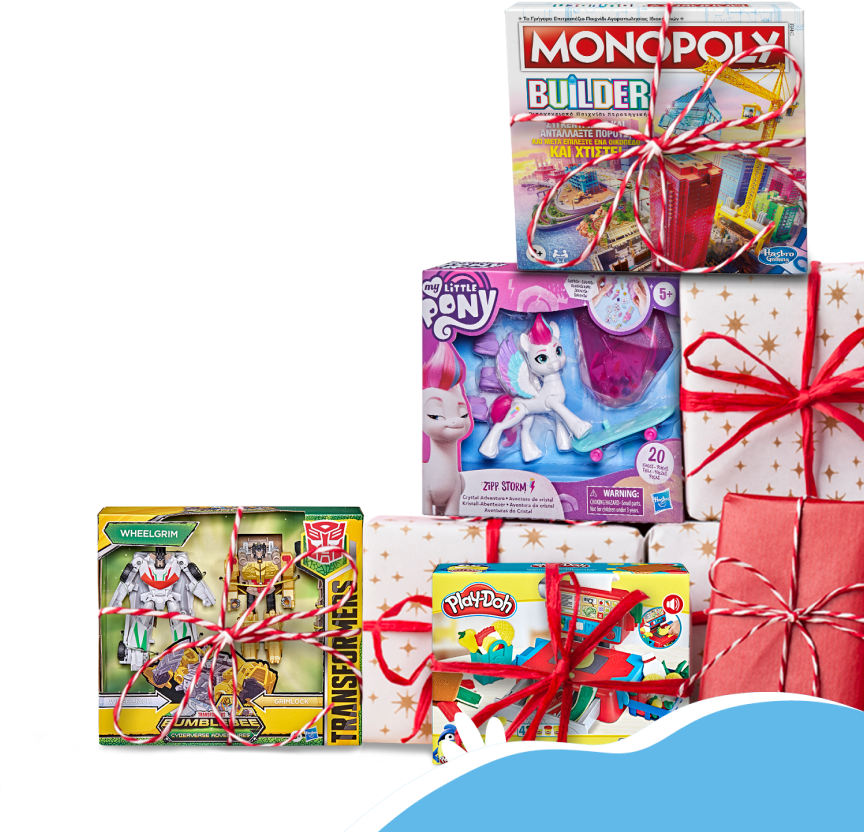
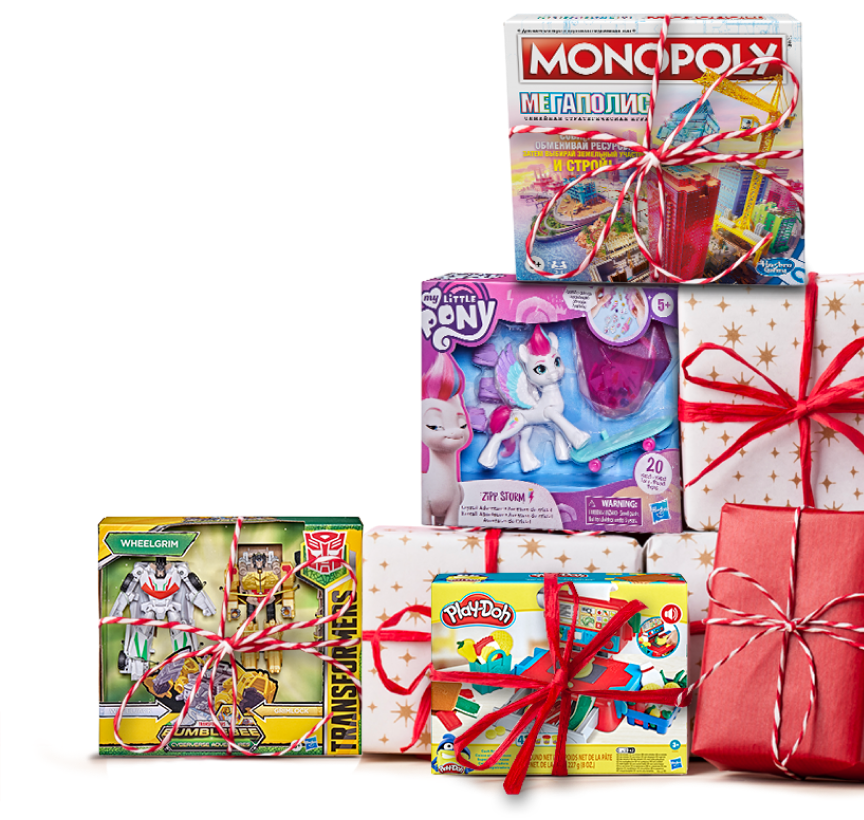
next

diff --git a/index.html b/index.html
@@ -157,7 +157,7 @@
     <figure class="first-section__presents">
       <img src="./dist/img/presents.png"
            width="432"
-           height="416"
+           height="410"
            loading="lazy"
            alt="img">
     </figure>

diff --git a/dist/css/main.css b/dist/css/main.css
@@ -1027,7 +1027,7 @@ figure img {
   .first-section__presents {
     position: absolute;
     right: 0;
-    bottom: 0;
+    bottom: 11px;
     z-index: 2; }
     @media (max-width: 1200px) {
       .first-section__presents img {

diff --git a/app/sass/main.scss b/app/sass/main.scss
@@ -144,7 +144,7 @@ figure img {
   &__presents {
     position: absolute;
     right: 0;
-    bottom: 0;
+    bottom: 11px;
     z-index: 2;
 
     @include response-to(large) {
